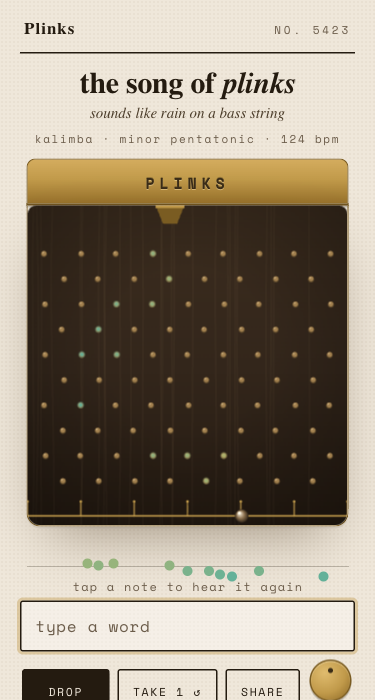
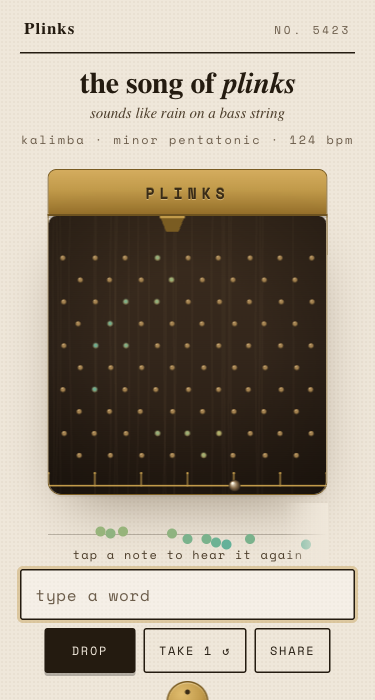
fix: design round-3 residuals — one clock for marble+audio, 500ms stamp cap, reduced-motion pegs, strip tap zones, mute press state, scroll fade cue, continuous mobile height budget, 12px mobile micro-type
Generated with [Devin](https://devin.ai)

diff --git a/src/components.tsx b/src/components.tsx
@@ -1,3 +1,4 @@
+import { useEffect, useRef, useState } from 'react';
 import type { Song } from './lib/song';
 import type { DropResult } from './lib/physics';
 import type { Playback } from './playback';
@@ -8,7 +9,7 @@ import { ramp } from './board';
 // ── brass rail: the word stamps in, letter by letter ──
 export function Rail({ word }: { word: string }) {
   const letters = word.toUpperCase().split('');
-  const stagger = Math.min(75, 480 / letters.length); // whole word lands in ~500ms
+  const stagger = Math.min(75, 80 / Math.max(1, letters.length - 1)); // last letter lands ~500ms in
   return (
     <div className="rail" role="img" aria-label={`The word ${word} stamped in brass`}>
       {letters.map((ch, i) => (
@@ -36,9 +37,41 @@ export function ScoreRail({ song, drop, pb }: { song: Song; drop: DropResult; pb
   const lo = Math.min(...midis), hi = Math.max(...midis);
   const revealed = pb.phase === 'settled' ? Infinity : pb.progress * lastT;
 
+  // taps anywhere on the strip replay the nearest note — forgiving on touch
+  const tapStrip = (e: React.MouseEvent<HTMLDivElement>) => {
+    if (e.target !== e.currentTarget && (e.target as HTMLElement).closest('button')) return;
+    const rect = e.currentTarget.getBoundingClientRect();
+    const fx = ((e.clientX - rect.left) / rect.width) * 100;
+    let best = -1, bd = Infinity;
+    evs.forEach((ev, i) => {
+      const ex = 2 + (ev.t / Math.max(lastT, 0.001)) * 96;
+      const d = Math.abs(ex - fx);
+      if (d < bd) { bd = d; best = i; }
+    });
+    if (best < 0) return;
+    const ev = evs[best];
+    if (!(pb.phase === 'settled' || ev.t <= revealed + 0.001)) return;
+    audioEngine.unlock();
+    audioEngine.setKit(song.kit);
+    pb.ping(ev.pegId, ev.midi, 0.8);
+  };
+
+  const strip = useRef<HTMLDivElement>(null);
+  const [canScroll, setCanScroll] = useState(false);
+  useEffect(() => {
+    const el = strip.current;
+    if (!el) return;
+    const check = () => setCanScroll(el.scrollWidth > el.clientWidth + 4 && el.scrollLeft + el.clientWidth < el.scrollWidth - 4);
+    check();
+    el.addEventListener('scroll', check);
+    const ro = new ResizeObserver(check);
+    ro.observe(el);
+    return () => { el.removeEventListener('scroll', check); ro.disconnect(); };
+  }, [evs.length]);
+
   return (
-    <div className="score" aria-label="The melody as a rail of notes">
-      <div className="score-inner">
+    <div className={`score${canScroll ? ' can-scroll' : ''}`} ref={strip} aria-label="The melody as a rail of notes">
+      <div className="score-inner" onClick={tapStrip}>
       <div className="score-rule" />
       {pb.phase === 'dropping' && (
         <div className="score-playhead" style={{ left: `${2 + pb.progress * 96}%` }} />

diff --git a/src/App.css b/src/App.css
@@ -95,7 +95,7 @@ body {
 }
 
 /* instrument */
-.instrument { margin-top: clamp(16px, 3vh, 30px); width: min(470px, 94vw, 58vh); }
+.instrument { margin-top: clamp(16px, 3vh, 30px); width: min(470px, 94vw, max(280px, 100vh - 500px)); }
 .rail {
   background: linear-gradient(180deg, #d4ac5e 0%, var(--brass) 45%, #96702a 100%);
   border-radius: 9px 9px 0 0;
@@ -149,6 +149,13 @@ body {
 }
 .score::-webkit-scrollbar { display: none; }
 .score-inner { position: relative; height: 100%; min-width: 100%; }
+.score.can-scroll::after {
+  content: "";
+  position: absolute; top: 0; right: 0; bottom: 0; width: 44px;
+  background: linear-gradient(90deg, rgba(239,231,218,0), var(--bone));
+  pointer-events: none;
+}
+.score.can-scroll .score-caption { color: var(--ink-soft); }
 @media (max-width: 560px) {
   .score-inner { width: 175%; } /* notes get real spacing on small screens */
 }
@@ -272,6 +279,7 @@ body {
   transform: translateX(-50%);
 }
 .mute.is-muted { transform: rotate(160deg); }
+.mute.is-muted:active { transform: rotate(160deg) scale(0.94); }
 .mute.is-muted::after {
   content: ""; position: absolute; left: 8px; right: 8px; top: 50%;
   height: 2px; background: #3a2c17; transform: translateY(-50%);
@@ -358,6 +366,8 @@ body {
 }
 
 @media (max-width: 560px) {
+  .meta { font-size: 12px; }
+  .btn { font-size: 12px; }
   .mute-tag { font-size: 12px; letter-spacing: 0.14em; }
   .score-caption { font-size: 12px; letter-spacing: 0.1em; }
   .score-hint { font-size: 12px; letter-spacing: 0.1em; }
@@ -366,7 +376,6 @@ body {
   .hero { margin-top: 14px; }
   .epithet { margin-top: 6px; }
   .meta { margin-top: 8px; }
-  .instrument { margin-top: 12px; width: min(470px, 94vw, 46vh); }
   .score { height: 62px; margin-top: 8px; }
   .footer { padding-top: 18px; }
 }

diff --git a/src/board.tsx b/src/board.tsx
@@ -189,17 +189,19 @@ function draw(ctx: CanvasRenderingContext2D, W: number, song: Song, pb: Playback
       ctx.shadowBlur = 20 * glow + 8;
       ctx.fillStyle = col;
       ctx.beginPath();
-      ctx.arc(px, py, p.r * S * (1 + glow * 0.9), 0, Math.PI * 2);
+      ctx.arc(px, py, p.r * S * (pb.reduced ? 1.15 : 1 + glow * 0.9), 0, Math.PI * 2);
       ctx.fill();
       ctx.restore();
-      const ring = Math.min(1, age * 3.2);
-      ctx.strokeStyle = col;
-      ctx.globalAlpha = (1 - ring) * 0.55;
-      ctx.lineWidth = 1.4;
-      ctx.beginPath();
-      ctx.arc(px, py, (p.r + ring * 0.045) * S, 0, Math.PI * 2);
-      ctx.stroke();
-      ctx.globalAlpha = 1;
+      if (!pb.reduced) {
+        const ring = Math.min(1, age * 3.2);
+        ctx.strokeStyle = col;
+        ctx.globalAlpha = (1 - ring) * 0.55;
+        ctx.lineWidth = 1.4;
+        ctx.beginPath();
+        ctx.arc(px, py, (p.r + ring * 0.045) * S, 0, Math.PI * 2);
+        ctx.stroke();
+        ctx.globalAlpha = 1;
+      }
     } else {
       // pin: dark base + brass cap + tiny highlight
       ctx.fillStyle = P.pegDark;

diff --git a/src/playback.ts b/src/playback.ts
@@ -98,7 +98,7 @@ export function usePlayback(song: Song, take: number): Playback {
     let ei = 0; // event cursor — every strike lights its peg, repeats included
     const tick = () => {
       const now = performance.now() / 1000;
-      const ts = now - s.t0;
+      const ts = now - s.t0 - LEAD; // marble, flash, score share the audio clock
       while (si < samples.length - 2 && samples[si + 1].t <= ts) si++;
       const a = samples[si], b = samples[Math.min(si + 1, samples.length - 1)];
       const f = b.t > a.t ? Math.min(1, Math.max(0, (ts - a.t) / (b.t - a.t))) : 1;

diff --git a/src/share.ts b/src/share.ts
@@ -55,7 +55,7 @@ export async function shareCardPng(song: Song, drop: DropResult, take: number): 
   // score rail
   const evs = drop.events;
   const lastT = evs.length ? evs[evs.length - 1].t : 1;
-  const midis = evs.map(e => e.midi);
+  const midis = song.board.pegs.map(p => p.midi);
   const lo = Math.min(...midis), hi = Math.max(...midis);
   const sx0 = 110, sx1 = W - 110, sy = 440, sh = 120;
   ctx.strokeStyle = 'rgba(36,27,16,0.25)';

diff --git a/src/og.tsx b/src/og.tsx
@@ -9,7 +9,7 @@ export function OgCard() {
   const drop = simulate(song, 1);
   const evs = drop.events;
   const lastT = evs.length ? evs[evs.length - 1].t : 1;
-  const midis = evs.map(e => e.midi);
+  const midis = song.board.pegs.map(p => p.midi);
   const lo = Math.min(...midis), hi = Math.max(...midis);
 
   return (
